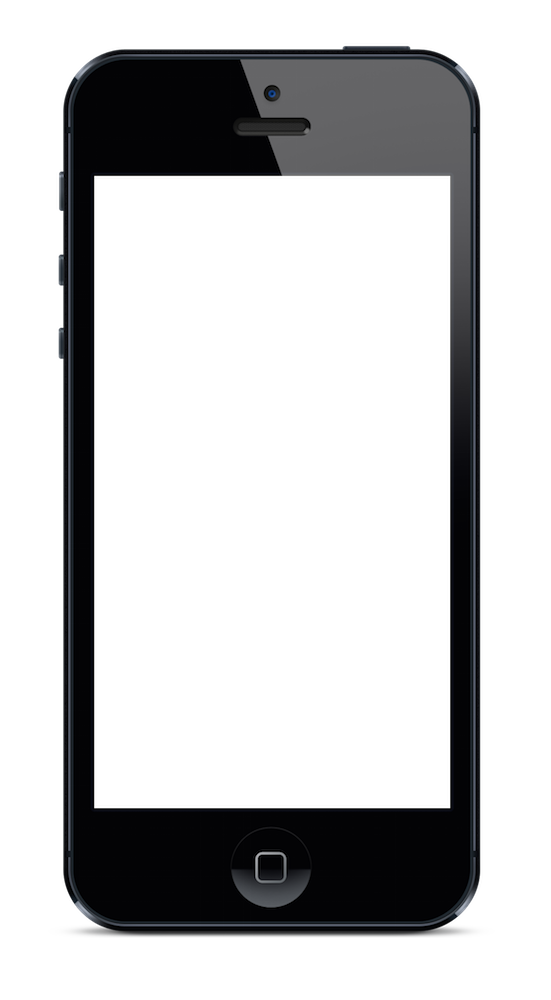
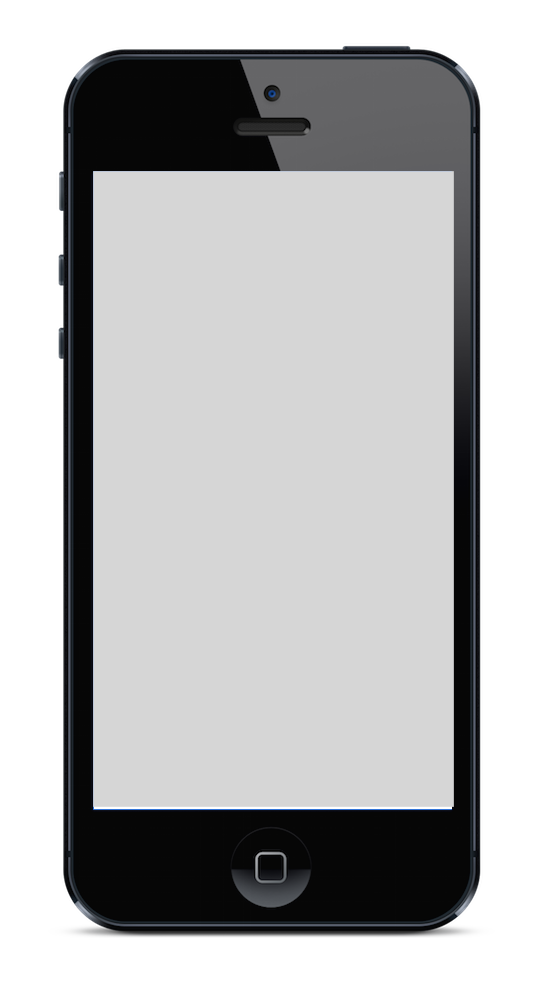
LandingPage Images

diff --git a/css/style.css b/css/style.css
@@ -33,7 +33,7 @@ header h2{
   font-family: 'Slabo 27px', serif;
   margin-left: 5%;
   width: 30%;
-  margin-top: 50vh;
+  margin-top: 40vh;
   font-size: 25px;
   color: white;
   display: inline-block;
@@ -57,14 +57,25 @@ header h2{
 
 
 .iphone-img{
-  display: inline-block;
-  float: right;
-  margin-top: 50px;
-  height: 100%;
-  margin-right: 10%;
-  background-size: 95%;
-  width: 40%;
-  background-image:  url("iphone.png");
+	display: inline-block;
+	float: right;
+	width: 290px;
+	height: auto;
+	margin-top: 10%;
+	margin-left: 4%;
+}
+
+.nexus-img{
+	display: inline-block;
+	float: right;
+	width: 270px;
+	margin-right: 4%;
+	height: auto;
+	margin-top: 8%;
+}
+
+.nexus-img img{
+	margin-left: -35%;
 }
 
 .bg{

diff --git a/index.html b/index.html
@@ -20,14 +20,15 @@
     </header>
 
     <div class="bg">
-      <img src="img/photos/pebbles.jpg" style="width:100%">
+      <img src="img/photos/gif.gif" style="width:100%">
     </div>
 
     <section class="container-landing-page">
       <p>Creemos en el talento nuevo y
           en el poder de la musica para
           unir personas</p>
-      <div class="iphone-img"></div>
+      <div class="nexus-img"><img src="img/Nexus5.png"> </div>
+      <div class="iphone-img"><img src="img/iphone.png"> </div>
     </section>
 
     <div class="footer">
